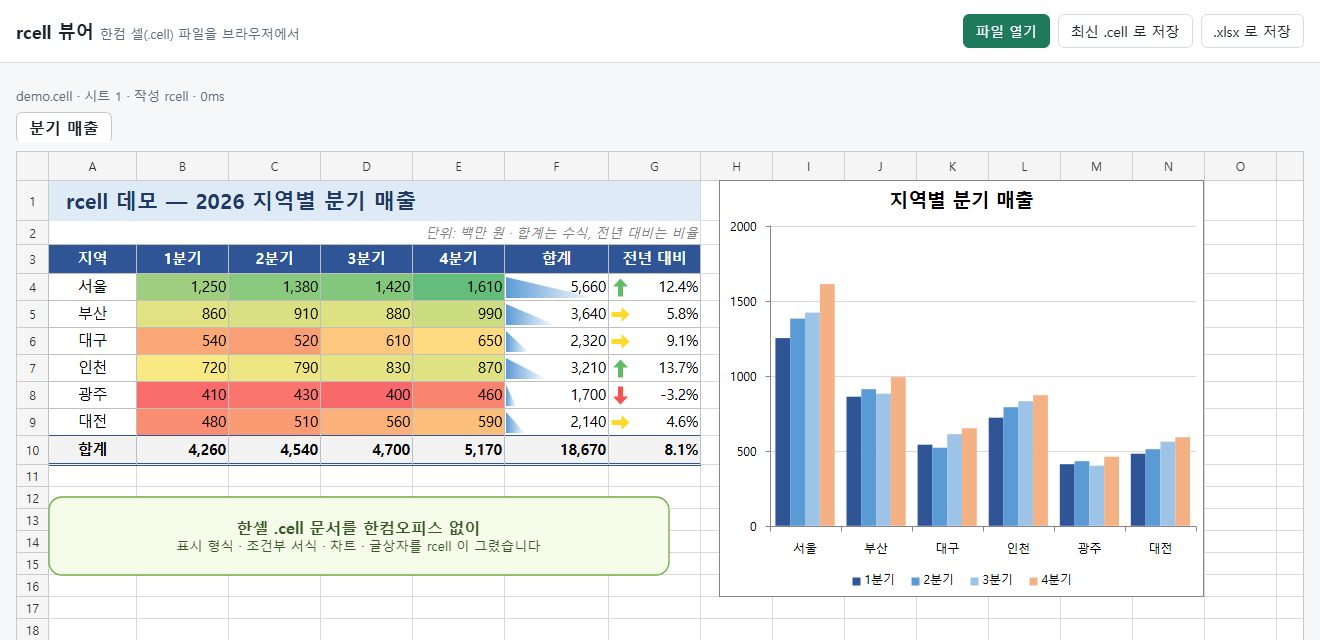
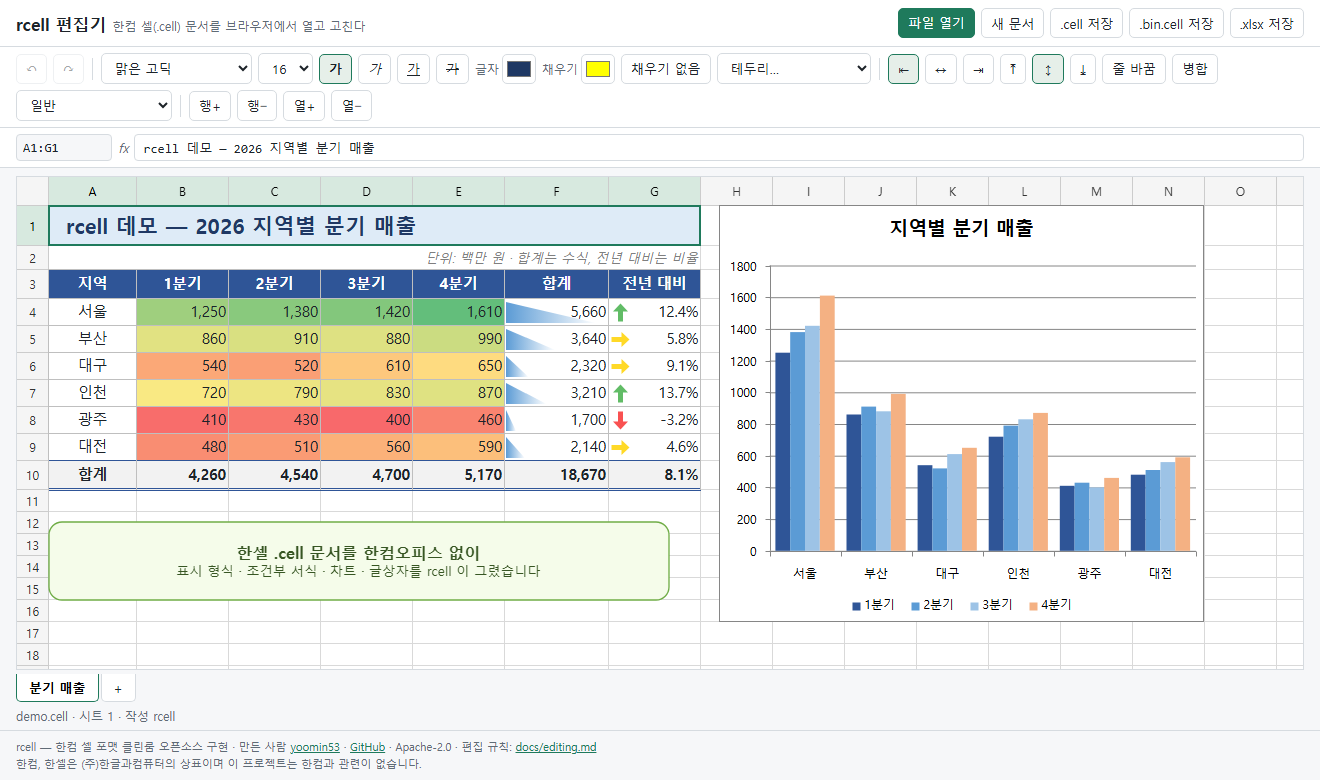
화면 규칙 문서: 도형 상자·채우기·그림자 자리, 글상자 첫 줄은 함초롬 글꼴만, 대조 결과 표 (처음·앞·지금, 새 실험 묶음 6개), 남은 차이 — README 화면은 지금의 웹 편집기로 다시 찍음
Author: yoomin53

diff --git a/README.md b/README.md
@@ -37,9 +37,9 @@ XML, 바이너리, 한셀 2010 이하의 레거시 — 을 모두 읽고, 한셀
 > **[온라인 데모](https://yoomin53.github.io/rcell/?file=samples/demo.cell)** | **[포맷 명세](docs/format/cell-2024.md)** | **[분석 방법](docs/reverse-engineering.md)** | **[로드맵](docs/ROADMAP.md)**
 
 <p align="center">
-  <img src="assets/screenshots/render-example.png" alt="rcell 웹 뷰어 — 표시 형식, 조건부 서식(색조·데이터 막대·아이콘), 차트, 글상자" width="760" />
+  <img src="assets/screenshots/render-example.png" alt="rcell 웹 편집기 — 표시 형식, 조건부 서식(색조·데이터 막대·아이콘), 차트, 글상자" width="760" />
 </p>
-<p align="center"><sub>rcell 웹 뷰어가 그린 데모 문서 — <code>tools/demo/make-demo.js</code> 로 만든 문서이며 데이터는 지어낸 것입니다.</sub></p>
+<p align="center"><sub>rcell 웹 편집기가 그린 데모 문서 — <code>tools/demo/make-demo.js</code> 로 만든 문서이며 데이터는 지어낸 것입니다.</sub></p>
 
 ## 로드맵
 
